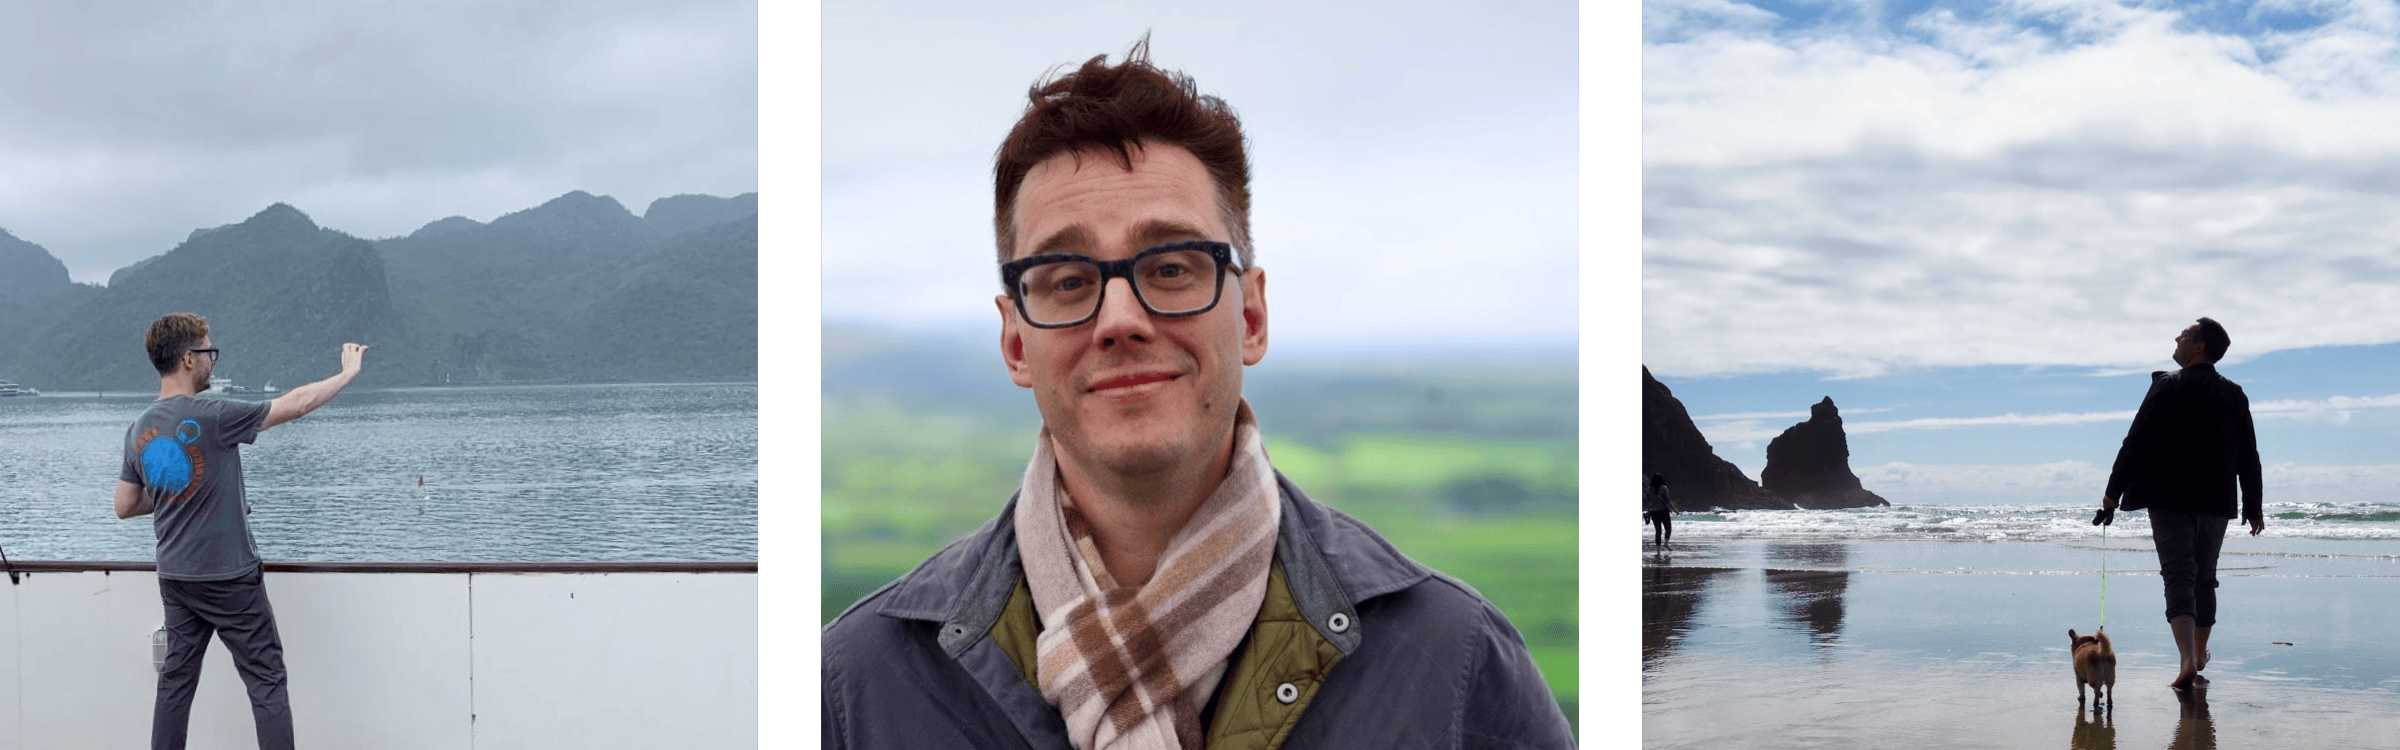
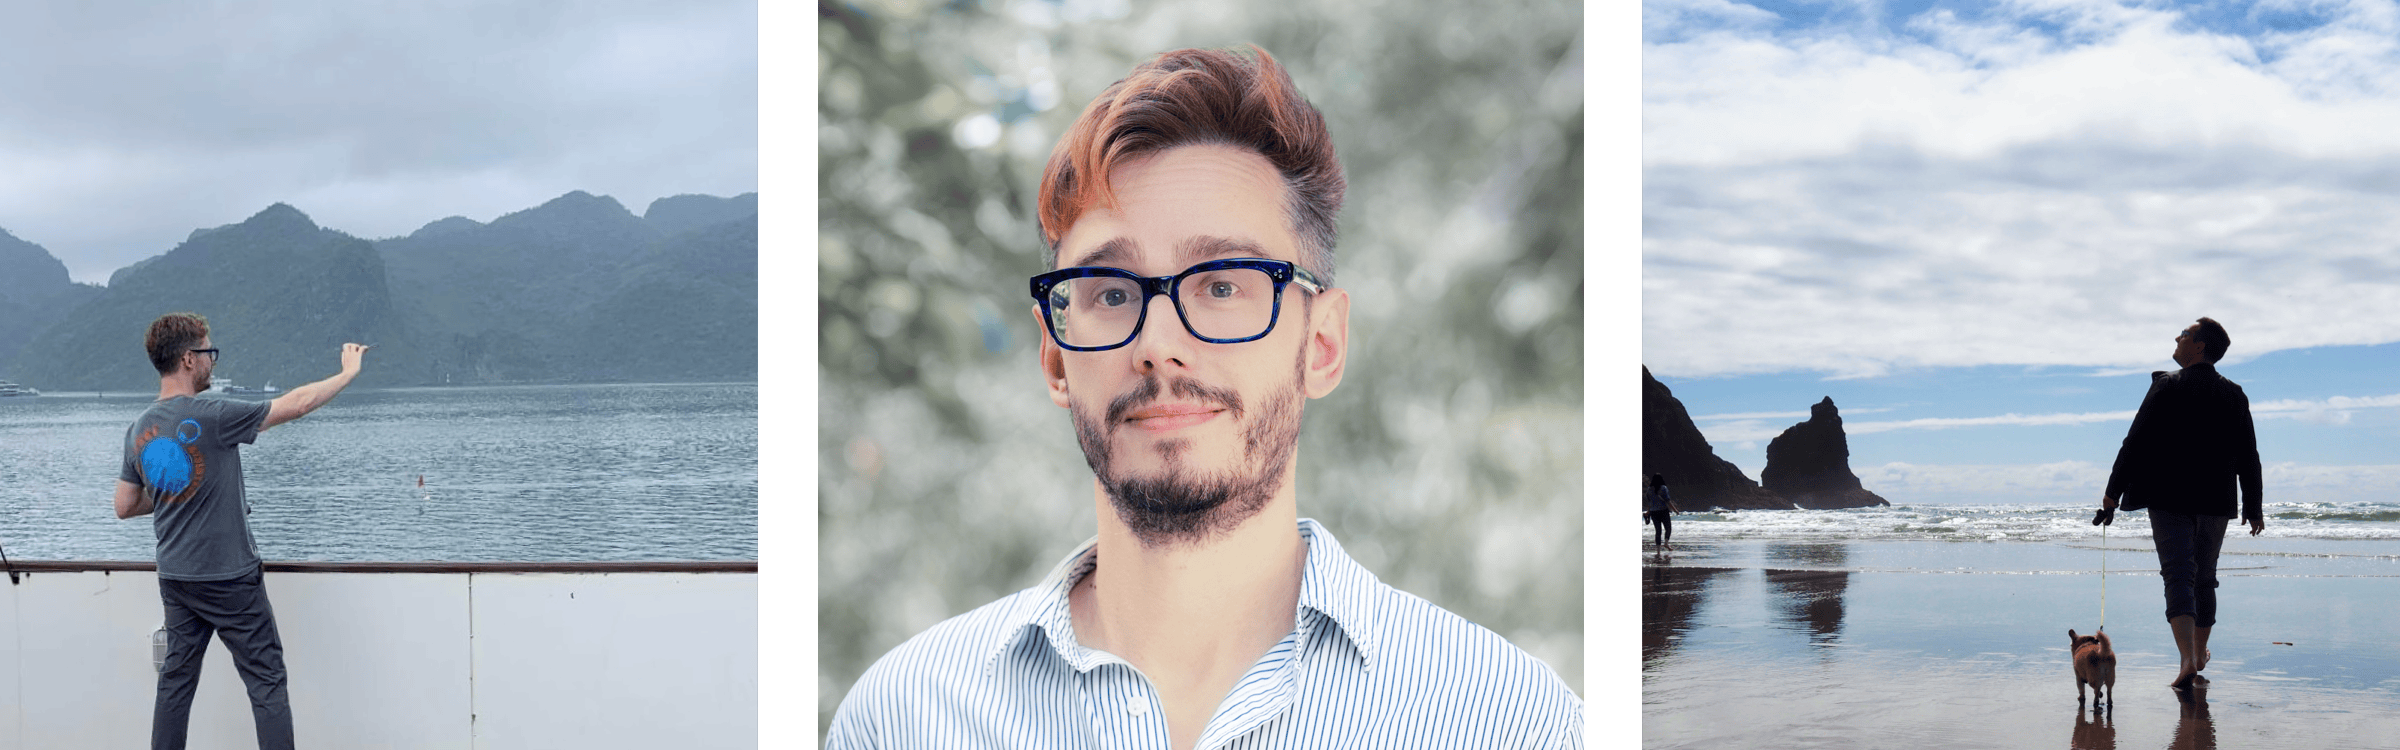
Updates to CMS functionality. Updates to imagery on landing page

diff --git a/src/content/config.ts b/src/content/config.ts
@@ -12,7 +12,6 @@ const caseStudiesCollection = defineCollection({
     tags: z.array(z.string()),
     date: z.date().optional(),
     featured: z.boolean().default(false),
-    outcomes: z.array(z.string()).optional(),
     password: z.string().optional(),
   }),
 });

diff --git a/ProjectConstraints.md b/ProjectConstraints.md
@@ -12,6 +12,7 @@ This is Josh Wright's professional UX portfolio website, showcasing case studies
 - **Analytics**: Microsoft Clarity
 - **Video**: Mux Player for embedded videos
 - **Site URL**: https://joshux.com
+- **Deployment platform**: Netlify
 
 ## Architecture Principles
 
